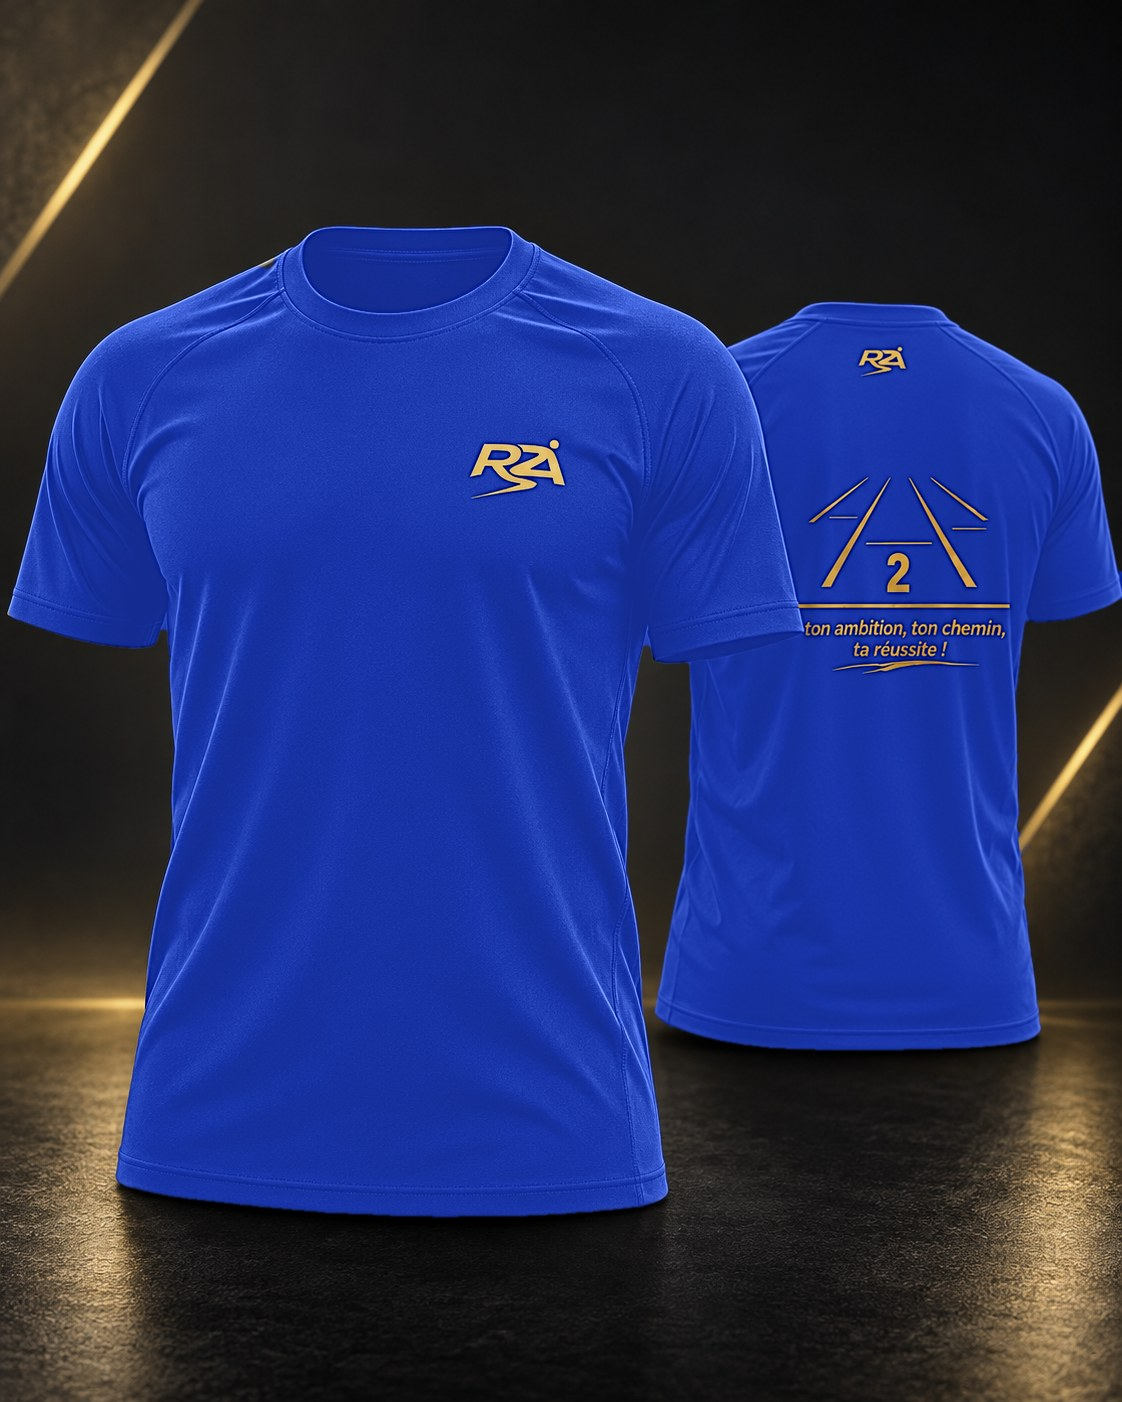
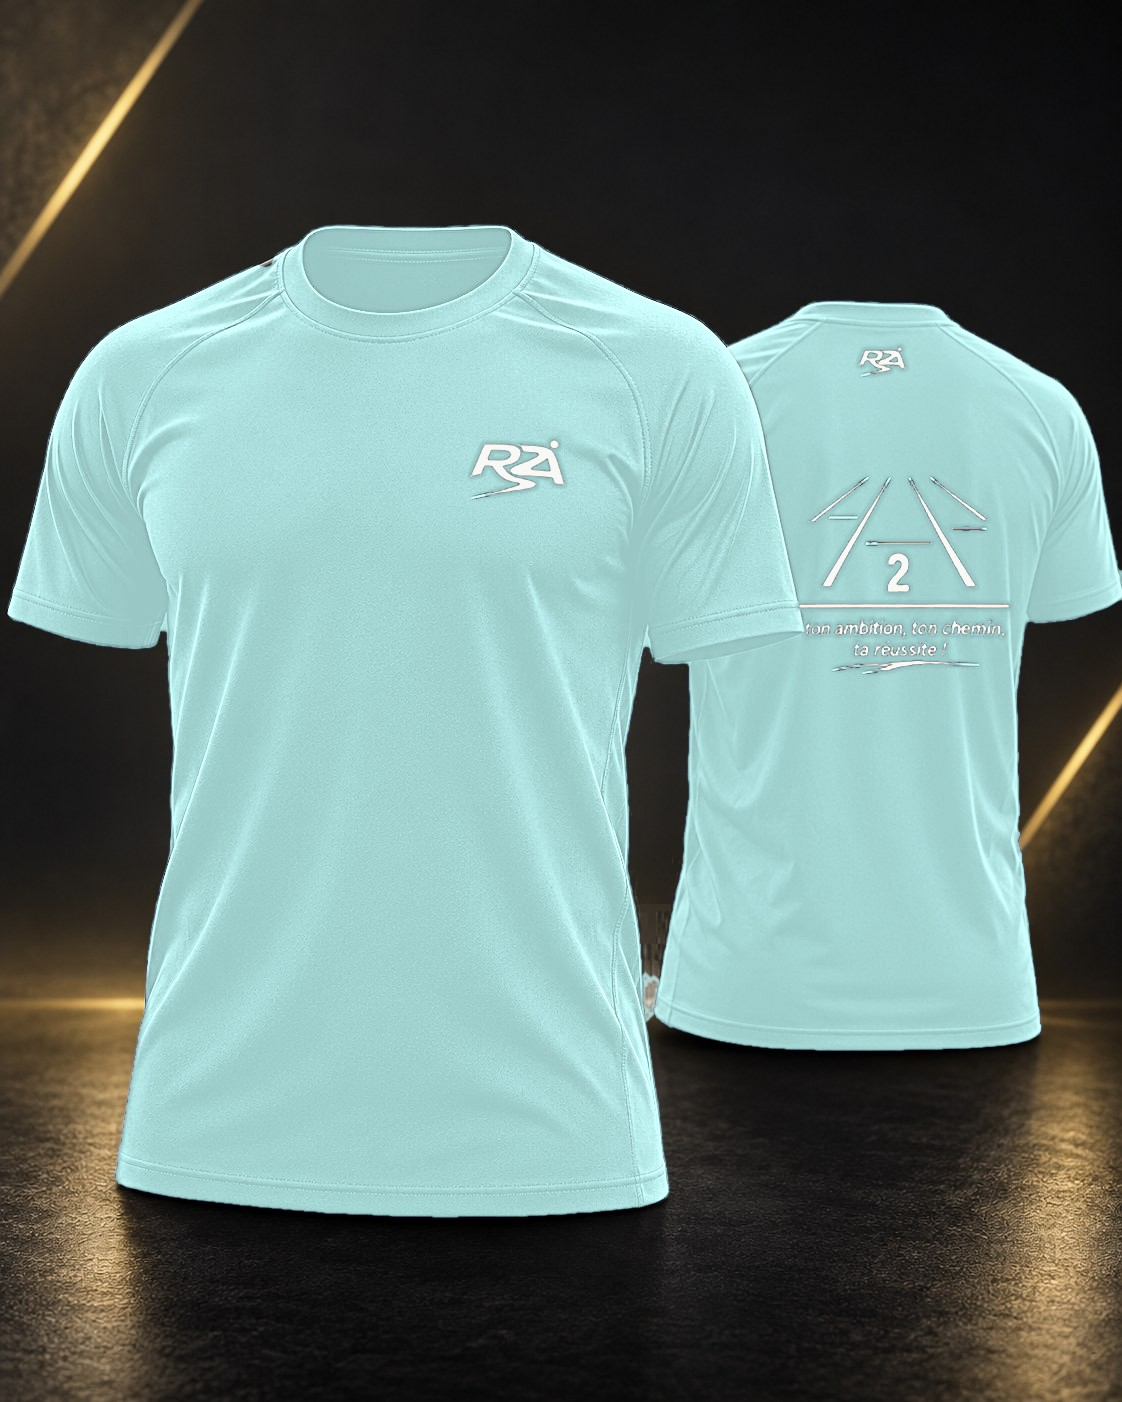
Add files via upload

diff --git a/public/maillots/index.html b/public/maillots/index.html
@@ -11,7 +11,7 @@
   <title>Maillots R2A — Boutique</title>
   <link rel="icon" type="image/svg+xml" href="../assets/images/brand/r2a-logo.svg">
   <link rel="preload" href="../assets/fonts/big-shoulders-display-latin-900-normal.woff2" as="font" type="font/woff2" crossorigin>
-  <link rel="stylesheet" href="../assets/css/site.css?v=20261107a">
+  <link rel="stylesheet" href="../assets/css/site.css?v=20261107c">
 </head>
 <body>
 <a class="skip" href="#main">Aller au contenu</a>
@@ -42,8 +42,8 @@
   <div class="kicker reveal">Nouveauté</div>
   <h2 class="section-title reveal">Maillots blanc et bleu</h2>
   <div class="nouv-grid">
-    <a class="nouv-card c-white reveal" href="./homme.html" aria-label="Maillot R2A blanc"><img src="../assets/images/products/couleurs/maillot-blanc-recto-verso.jpg" alt="Maillot R2A blanc, recto et verso" loading="lazy" onerror="this.remove()"><span>Blanc</span></a>
-    <a class="nouv-card c-blue reveal" style="--d:.1s" href="./homme.html" aria-label="Maillot R2A bleu"><img src="../assets/images/products/couleurs/maillot-bleu-recto-verso.jpg" alt="Maillot R2A bleu, recto et verso" loading="lazy" onerror="this.remove()"><span>Bleu</span></a>
+    <a class="nouv-card c-white reveal" href="./homme.html" aria-label="Maillot R2A blanc"><img src="../assets/images/products/homme/gallery-01-front-back-blanc.jpg" alt="Maillot R2A blanc, recto et verso" loading="lazy" onerror="this.remove()"><span>Blanc</span></a>
+    <a class="nouv-card c-blue reveal" style="--d:.1s" href="./homme.html" aria-label="Maillot R2A bleu"><img src="../assets/images/products/homme/gallery-01-front-back-bleu.jpg" alt="Maillot R2A bleu, recto et verso" loading="lazy" onerror="this.remove()"><span>Bleu</span></a>
   </div>
 </div></section>
 <section class="section"><div class="container"><div id="categoryGrid" class="grid-3"></div></div></section>
@@ -75,10 +75,10 @@
     <button class="btn btn-primary" id="checkoutBtn" type="button">Payer en ligne <span class="arrow">→</span></button>
   </div>
 </aside>
-<script src="../assets/js/site-config.js?v=20261107a"></script>
-<script src="../assets/js/data/catalog.js?v=20261107a"></script>
-<script src="../assets/js/app.js?v=20261107a"></script>
-<script src="../assets/js/fx.js?v=20261107a"></script>
+<script src="../assets/js/site-config.js?v=20261107c"></script>
+<script src="../assets/js/data/catalog.js?v=20261107c"></script>
+<script src="../assets/js/app.js?v=20261107c"></script>
+<script src="../assets/js/fx.js?v=20261107c"></script>
 
 </body>
 </html>

diff --git a/public/index.html b/public/index.html
@@ -11,7 +11,7 @@
   <title>R2A — Road 2 your Ambition</title>
   <link rel="icon" type="image/svg+xml" href="./assets/images/brand/r2a-logo.svg">
   <link rel="preload" href="./assets/fonts/big-shoulders-display-latin-900-normal.woff2" as="font" type="font/woff2" crossorigin>
-  <link rel="stylesheet" href="./assets/css/site.css?v=20261107a">
+  <link rel="stylesheet" href="./assets/css/site.css?v=20261107c">
 </head>
 <body>
 <a class="skip" href="#main">Aller au contenu</a>
@@ -54,9 +54,9 @@
         <div class="hero-cta"><a class="btn btn-primary" href="maillots/index.html">Découvrir nos maillots <span class="arrow">→</span></a></div>
       </div>
       <div class="fan" aria-label="Maillots R2A noir, blanc et bleu">
-        <a class="fan-item f1 c-white" href="maillots/index.html"><img src="assets/images/products/couleurs/maillot-blanc.jpg" alt="Maillot R2A blanc" loading="lazy"></a>
+        <a class="fan-item f1 c-white" href="maillots/index.html"><img src="assets/images/products/homme/gallery-02-front-blanc.jpg" alt="Maillot R2A blanc" loading="lazy" onerror="this.remove()"></a>
         <a class="fan-item f2" href="maillots/index.html"><img src="assets/images/products/homme/gallery-02-front.png" alt="Maillot R2A noir" loading="lazy"></a>
-        <a class="fan-item f3 c-blue" href="maillots/index.html"><img src="assets/images/products/couleurs/maillot-bleu.jpg" alt="Maillot R2A bleu" loading="lazy"></a>
+        <a class="fan-item f3 c-blue" href="maillots/index.html"><img src="assets/images/products/homme/gallery-02-front-bleu.jpg" alt="Maillot R2A bleu" loading="lazy" onerror="this.remove()"></a>
       </div>
     </div>
   </div>
@@ -124,10 +124,10 @@
     <button class="btn btn-primary" id="checkoutBtn" type="button">Payer en ligne <span class="arrow">→</span></button>
   </div>
 </aside>
-<script src="./assets/js/site-config.js?v=20261107a"></script>
-<script src="./assets/js/data/catalog.js?v=20261107a"></script>
-<script src="./assets/js/app.js?v=20261107a"></script>
-<script src="./assets/js/fx.js?v=20261107a"></script>
-<script type="module" src="./assets/js/scene.js?v=20261107a"></script>
+<script src="./assets/js/site-config.js?v=20261107c"></script>
+<script src="./assets/js/data/catalog.js?v=20261107c"></script>
+<script src="./assets/js/app.js?v=20261107c"></script>
+<script src="./assets/js/fx.js?v=20261107c"></script>
+<script type="module" src="./assets/js/scene.js?v=20261107c"></script>
 </body>
 </html>

diff --git a/public/merci.html b/public/merci.html
@@ -12,7 +12,7 @@
   <title>Merci pour ta commande — R2A</title>
   <link rel="icon" type="image/svg+xml" href="/assets/images/brand/r2a-logo.svg">
   <link rel="preload" href="/assets/fonts/big-shoulders-display-latin-900-normal.woff2" as="font" type="font/woff2" crossorigin>
-  <link rel="stylesheet" href="/assets/css/site.css?v=20261107a">
+  <link rel="stylesheet" href="/assets/css/site.css?v=20261107c">
 </head>
 <body>
 <a class="skip" href="#main">Aller au contenu</a>
@@ -28,7 +28,7 @@
 </header>
 <main id="main">
 <section class="section legal-wrap"><div class="container"><div class="legal-card" style="padding:clamp(28px,5vw,60px)"><div class="kicker">Commande</div><h1 class="section-title" id="mTitle">Vérification du paiement…</h1><p class="section-copy" id="mText">Un instant.</p><a class="btn btn-primary" href="/index.html">Retour à l’accueil</a></div></div></section>
-<script src="/assets/js/merci.js?v=20261107a"></script>
+<script src="/assets/js/merci.js?v=20261107c"></script>
 </main>
 <footer class="footer">
   <div class="container">
@@ -57,10 +57,10 @@
     <button class="btn btn-primary" id="checkoutBtn" type="button">Payer en ligne <span class="arrow">→</span></button>
   </div>
 </aside>
-<script src="/assets/js/site-config.js?v=20261107a"></script>
-<script src="/assets/js/data/catalog.js?v=20261107a"></script>
-<script src="/assets/js/app.js?v=20261107a"></script>
-<script src="/assets/js/fx.js?v=20261107a"></script>
+<script src="/assets/js/site-config.js?v=20261107c"></script>
+<script src="/assets/js/data/catalog.js?v=20261107c"></script>
+<script src="/assets/js/app.js?v=20261107c"></script>
+<script src="/assets/js/fx.js?v=20261107c"></script>
 
 </body>
 </html>

diff --git a/public/assets/css/site.css b/public/assets/css/site.css
@@ -640,7 +640,7 @@ body::before{display:none}
 
 /* ---- Mise à jour R2A (novembre 2026) ---- */
 .fan-item.c-white{background:linear-gradient(160deg,#fff,#cfd3d8)}
-.fan-item.c-blue,.nouv-card.c-blue{background:linear-gradient(160deg,#1f4fd8,#0b1f6b)}
+.fan-item.c-blue,.nouv-card.c-blue{background:linear-gradient(160deg,#a4d6d4,#6fa8a6)}
 .nouv-card.c-white{background:linear-gradient(160deg,#fff,#cfd3d8)}
 .fan-item em,.nouv-card em,.tile-ph em{position:absolute;inset:0;display:flex;align-items:center;justify-content:center;font-style:normal;font-size:.7rem;font-weight:800;letter-spacing:.2em;text-transform:uppercase;color:rgba(6,6,6,.55)}
 .fan-item.c-blue em,.nouv-card.c-blue em{color:rgba(255,255,255,.7)}
@@ -679,9 +679,4 @@ body::before{display:none}
 .color-chip{display:inline-flex;align-items:center;gap:8px;padding:7px 14px 7px 8px;border-radius:999px;border:1px solid var(--line);font-size:.8rem;font-weight:700;color:var(--gold-3);background:transparent;cursor:pointer}
 .color-chip i{width:18px;height:18px;border-radius:50%;border:1px solid rgba(255,255,255,.35);display:block}
 .color-chip.on{border-color:var(--gold-2);background:rgba(227,191,115,.1);color:#fff}
-
-/* Nouveauté : cartes recto / verso */
-.nouv-grid{max-width:none}
-.nouv-card{aspect-ratio:16/10;background:#0a0a0a}
 .fan-item.c-white,.fan-item.c-blue{background:#0a0a0a}
-@media(max-width:700px){.nouv-grid{grid-template-columns:1fr}}

diff --git a/public/maillots/enfant.html b/public/maillots/enfant.html
@@ -11,7 +11,7 @@
   <title>Maillot R2A Enfant</title>
   <link rel="icon" type="image/svg+xml" href="../assets/images/brand/r2a-logo.svg">
   <link rel="preload" href="../assets/fonts/big-shoulders-display-latin-900-normal.woff2" as="font" type="font/woff2" crossorigin>
-  <link rel="stylesheet" href="../assets/css/site.css?v=20261107a">
+  <link rel="stylesheet" href="../assets/css/site.css?v=20261107c">
 </head>
 <body data-category="enfant">
 <a class="skip" href="#main">Aller au contenu</a>
@@ -67,10 +67,10 @@
     <button class="btn btn-primary" id="checkoutBtn" type="button">Payer en ligne <span class="arrow">→</span></button>
   </div>
 </aside>
-<script src="../assets/js/site-config.js?v=20261107a"></script>
-<script src="../assets/js/data/catalog.js?v=20261107a"></script>
-<script src="../assets/js/app.js?v=20261107a"></script>
-<script src="../assets/js/fx.js?v=20261107a"></script>
+<script src="../assets/js/site-config.js?v=20261107c"></script>
+<script src="../assets/js/data/catalog.js?v=20261107c"></script>
+<script src="../assets/js/app.js?v=20261107c"></script>
+<script src="../assets/js/fx.js?v=20261107c"></script>
 
 </body>
 </html>

diff --git a/public/legal/cgv.html b/public/legal/cgv.html
@@ -11,7 +11,7 @@
   <title>Conditions générales de vente — R2A</title>
   <link rel="icon" type="image/svg+xml" href="../assets/images/brand/r2a-logo.svg">
   <link rel="preload" href="../assets/fonts/big-shoulders-display-latin-900-normal.woff2" as="font" type="font/woff2" crossorigin>
-  <link rel="stylesheet" href="../assets/css/site.css?v=20261107a">
+  <link rel="stylesheet" href="../assets/css/site.css?v=20261107c">
 </head>
 <body>
 <a class="skip" href="#main">Aller au contenu</a>
@@ -67,10 +67,10 @@
     <button class="btn btn-primary" id="checkoutBtn" type="button">Payer en ligne <span class="arrow">→</span></button>
   </div>
 </aside>
-<script src="../assets/js/site-config.js?v=20261107a"></script>
-<script src="../assets/js/data/catalog.js?v=20261107a"></script>
-<script src="../assets/js/app.js?v=20261107a"></script>
-<script src="../assets/js/fx.js?v=20261107a"></script>
+<script src="../assets/js/site-config.js?v=20261107c"></script>
+<script src="../assets/js/data/catalog.js?v=20261107c"></script>
+<script src="../assets/js/app.js?v=20261107c"></script>
+<script src="../assets/js/fx.js?v=20261107c"></script>
 
 </body>
 </html>

diff --git a/public/maillots/femme.html b/public/maillots/femme.html
@@ -11,7 +11,7 @@
   <title>Maillot R2A Femme</title>
   <link rel="icon" type="image/svg+xml" href="../assets/images/brand/r2a-logo.svg">
   <link rel="preload" href="../assets/fonts/big-shoulders-display-latin-900-normal.woff2" as="font" type="font/woff2" crossorigin>
-  <link rel="stylesheet" href="../assets/css/site.css?v=20261107a">
+  <link rel="stylesheet" href="../assets/css/site.css?v=20261107c">
 </head>
 <body data-category="femme">
 <a class="skip" href="#main">Aller au contenu</a>
@@ -67,10 +67,10 @@
     <button class="btn btn-primary" id="checkoutBtn" type="button">Payer en ligne <span class="arrow">→</span></button>
   </div>
 </aside>
-<script src="../assets/js/site-config.js?v=20261107a"></script>
-<script src="../assets/js/data/catalog.js?v=20261107a"></script>
-<script src="../assets/js/app.js?v=20261107a"></script>
-<script src="../assets/js/fx.js?v=20261107a"></script>
+<script src="../assets/js/site-config.js?v=20261107c"></script>
+<script src="../assets/js/data/catalog.js?v=20261107c"></script>
+<script src="../assets/js/app.js?v=20261107c"></script>
+<script src="../assets/js/fx.js?v=20261107c"></script>
 
 </body>
 </html>

diff --git a/public/maillots/homme.html b/public/maillots/homme.html
@@ -11,7 +11,7 @@
   <title>Maillot R2A Homme</title>
   <link rel="icon" type="image/svg+xml" href="../assets/images/brand/r2a-logo.svg">
   <link rel="preload" href="../assets/fonts/big-shoulders-display-latin-900-normal.woff2" as="font" type="font/woff2" crossorigin>
-  <link rel="stylesheet" href="../assets/css/site.css?v=20261107a">
+  <link rel="stylesheet" href="../assets/css/site.css?v=20261107c">
 </head>
 <body data-category="homme">
 <a class="skip" href="#main">Aller au contenu</a>
@@ -67,10 +67,10 @@
     <button class="btn btn-primary" id="checkoutBtn" type="button">Payer en ligne <span class="arrow">→</span></button>
   </div>
 </aside>
-<script src="../assets/js/site-config.js?v=20261107a"></script>
-<script src="../assets/js/data/catalog.js?v=20261107a"></script>
-<script src="../assets/js/app.js?v=20261107a"></script>
-<script src="../assets/js/fx.js?v=20261107a"></script>
+<script src="../assets/js/site-config.js?v=20261107c"></script>
+<script src="../assets/js/data/catalog.js?v=20261107c"></script>
+<script src="../assets/js/app.js?v=20261107c"></script>
+<script src="../assets/js/fx.js?v=20261107c"></script>
 
 </body>
 </html>

diff --git a/public/legal/confidentialite.html b/public/legal/confidentialite.html
@@ -11,7 +11,7 @@
   <title>Politique de confidentialité — R2A</title>
   <link rel="icon" type="image/svg+xml" href="../assets/images/brand/r2a-logo.svg">
   <link rel="preload" href="../assets/fonts/big-shoulders-display-latin-900-normal.woff2" as="font" type="font/woff2" crossorigin>
-  <link rel="stylesheet" href="../assets/css/site.css?v=20261107a">
+  <link rel="stylesheet" href="../assets/css/site.css?v=20261107c">
 </head>
 <body>
 <a class="skip" href="#main">Aller au contenu</a>
@@ -65,10 +65,10 @@
     <button class="btn btn-primary" id="checkoutBtn" type="button">Payer en ligne <span class="arrow">→</span></button>
   </div>
 </aside>
-<script src="../assets/js/site-config.js?v=20261107a"></script>
-<script src="../assets/js/data/catalog.js?v=20261107a"></script>
-<script src="../assets/js/app.js?v=20261107a"></script>
-<script src="../assets/js/fx.js?v=20261107a"></script>
+<script src="../assets/js/site-config.js?v=20261107c"></script>
+<script src="../assets/js/data/catalog.js?v=20261107c"></script>
+<script src="../assets/js/app.js?v=20261107c"></script>
+<script src="../assets/js/fx.js?v=20261107c"></script>
 
 </body>
 </html>

diff --git a/public/legal/mentions-legales.html b/public/legal/mentions-legales.html
@@ -11,7 +11,7 @@
   <title>Mentions légales — R2A</title>
   <link rel="icon" type="image/svg+xml" href="../assets/images/brand/r2a-logo.svg">
   <link rel="preload" href="../assets/fonts/big-shoulders-display-latin-900-normal.woff2" as="font" type="font/woff2" crossorigin>
-  <link rel="stylesheet" href="../assets/css/site.css?v=20261107a">
+  <link rel="stylesheet" href="../assets/css/site.css?v=20261107c">
 </head>
 <body>
 <a class="skip" href="#main">Aller au contenu</a>
@@ -64,10 +64,10 @@
     <button class="btn btn-primary" id="checkoutBtn" type="button">Payer en ligne <span class="arrow">→</span></button>
   </div>
 </aside>
-<script src="../assets/js/site-config.js?v=20261107a"></script>
-<script src="../assets/js/data/catalog.js?v=20261107a"></script>
-<script src="../assets/js/app.js?v=20261107a"></script>
-<script src="../assets/js/fx.js?v=20261107a"></script>
+<script src="../assets/js/site-config.js?v=20261107c"></script>
+<script src="../assets/js/data/catalog.js?v=20261107c"></script>
+<script src="../assets/js/app.js?v=20261107c"></script>
+<script src="../assets/js/fx.js?v=20261107c"></script>
 
 </body>
 </html>

diff --git a/public/legal/retractation.html b/public/legal/retractation.html
@@ -11,7 +11,7 @@
   <title>Rétractation — R2A</title>
   <link rel="icon" type="image/svg+xml" href="../assets/images/brand/r2a-logo.svg">
   <link rel="preload" href="../assets/fonts/big-shoulders-display-latin-900-normal.woff2" as="font" type="font/woff2" crossorigin>
-  <link rel="stylesheet" href="../assets/css/site.css?v=20261107a">
+  <link rel="stylesheet" href="../assets/css/site.css?v=20261107c">
 </head>
 <body>
 <a class="skip" href="#main">Aller au contenu</a>
@@ -63,10 +63,10 @@
     <button class="btn btn-primary" id="checkoutBtn" type="button">Payer en ligne <span class="arrow">→</span></button>
   </div>
 </aside>
-<script src="../assets/js/site-config.js?v=20261107a"></script>
-<script src="../assets/js/data/catalog.js?v=20261107a"></script>
-<script src="../assets/js/app.js?v=20261107a"></script>
-<script src="../assets/js/fx.js?v=20261107a"></script>
+<script src="../assets/js/site-config.js?v=20261107c"></script>
+<script src="../assets/js/data/catalog.js?v=20261107c"></script>
+<script src="../assets/js/app.js?v=20261107c"></script>
+<script src="../assets/js/fx.js?v=20261107c"></script>
 
 </body>
 </html>

diff --git a/public/videos.html b/public/videos.html
@@ -11,7 +11,7 @@
   <title>Vidéos Instagram — R2A</title>
   <link rel="icon" type="image/svg+xml" href="./assets/images/brand/r2a-logo.svg">
   <link rel="preload" href="./assets/fonts/big-shoulders-display-latin-900-normal.woff2" as="font" type="font/woff2" crossorigin>
-  <link rel="stylesheet" href="./assets/css/site.css?v=20261107a">
+  <link rel="stylesheet" href="./assets/css/site.css?v=20261107c">
 </head>
 <body>
 <a class="skip" href="#main">Aller au contenu</a>
@@ -70,10 +70,10 @@
     <button class="btn btn-primary" id="checkoutBtn" type="button">Payer en ligne <span class="arrow">→</span></button>
   </div>
 </aside>
-<script src="./assets/js/site-config.js?v=20261107a"></script>
-<script src="./assets/js/data/catalog.js?v=20261107a"></script>
-<script src="./assets/js/app.js?v=20261107a"></script>
-<script src="./assets/js/fx.js?v=20261107a"></script>
+<script src="./assets/js/site-config.js?v=20261107c"></script>
+<script src="./assets/js/data/catalog.js?v=20261107c"></script>
+<script src="./assets/js/app.js?v=20261107c"></script>
+<script src="./assets/js/fx.js?v=20261107c"></script>
 
 </body>
 </html>
